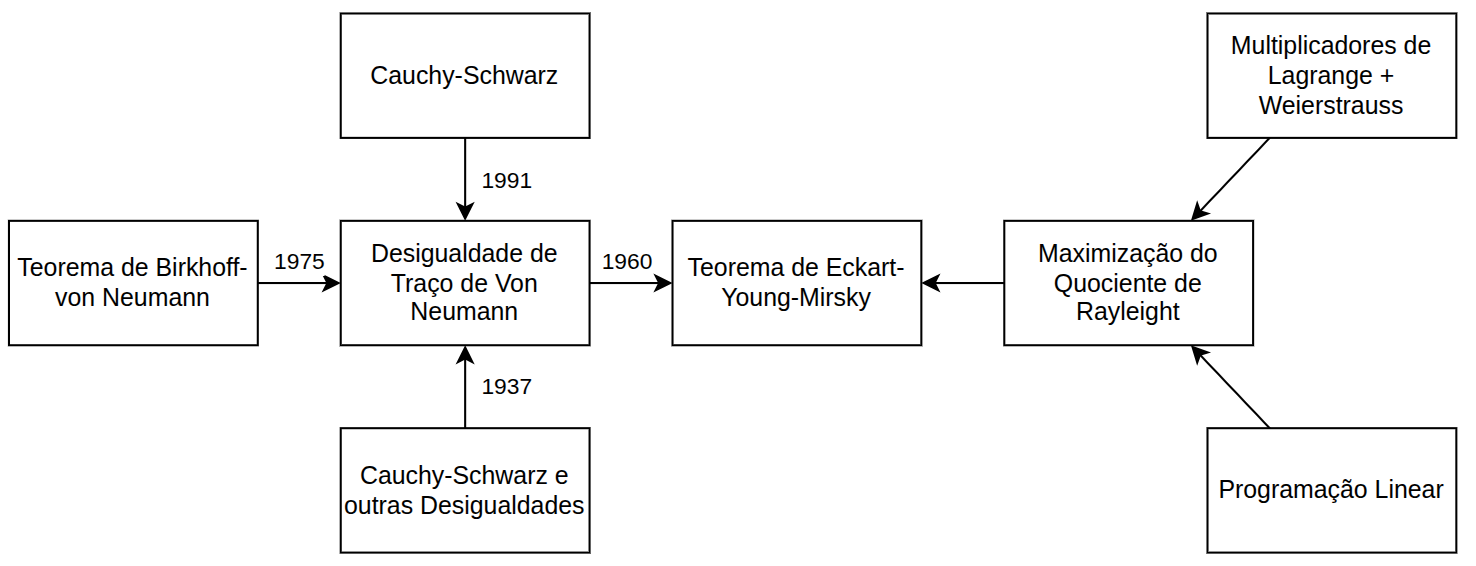
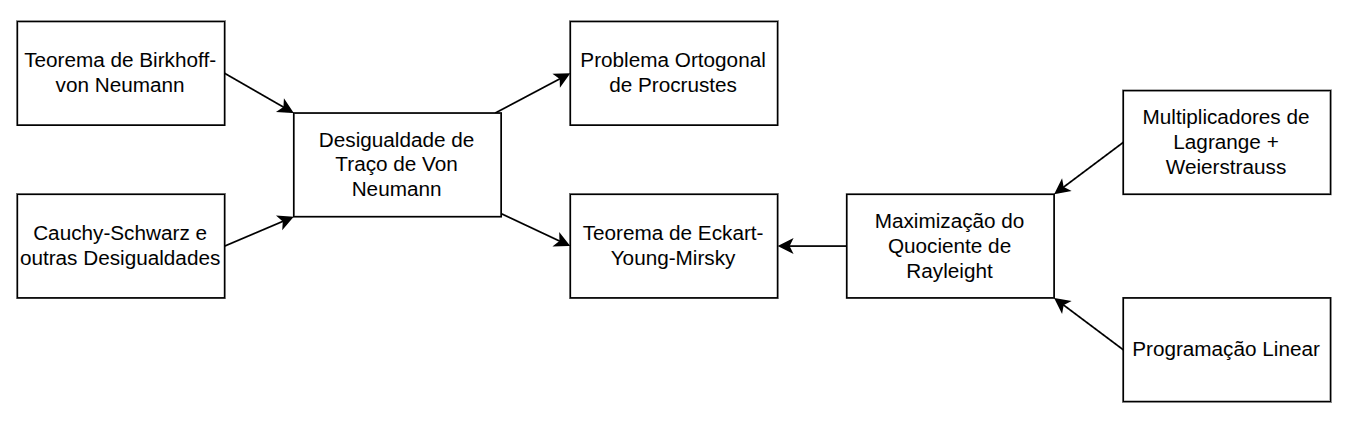
Add TODOs and update drawio

diff --git a/slides/slides.tex b/slides/slides.tex
@@ -1,8 +1,6 @@
 \documentclass{beamer}
 
-% colocar tempo de ic no 1° slide
-% e a bolsa
-\input{outer-crust/header.tex}
+\input{outer-crust/header.tex} % colocar tempo de ic no 1° slide e a bolsa
 
 \begin{document}
 
@@ -18,10 +16,6 @@
   \end{frame}
 
   \section{Motivação}
-    % Argumentos de desigualdade ao invés de Argumentos de teto
-    % ??? ao invés de "quebra de contexto"
-    % Tirar "de onde surgiu essa decomposição"
-    % Tirar "Álgebra"
     \input{part-1/the-problem.tex}
 
   \section{Abordagem}
@@ -29,15 +23,13 @@
     \input{part-2/argmin-decoupled.tex}
 
   \section{Mínimos Quadrados}
-    % Desenhos do quadro
-    \input{part-3/first-problem.tex}
+    \input{part-3/first-problem.tex} % change this slide
     \input{part-3/qr-decomp.tex}
-    \input{part-3/multiple-solutions.tex}
+    \input{part-3/multiple-solutions.tex} % change this slide
     \input{part-3/our-solution.tex}
 
   \section{Otimização Matricial}
-    \input{part-4/second-problem.tex}
-    \input{part-4/svd-decomp.tex}
+    \input{part-4/second-problem.tex} % change this slide
     \input{part-4/multiple-paths.tex}
     \input{part-4/our-solution-2.tex}
 

diff --git a/slides/outer-crust/thanks-and-bibliography.tex b/slides/outer-crust/thanks-and-bibliography.tex
@@ -1,14 +1,4 @@
 
-% >8-------------------------------------AGRADECIMENTOS-------------------------------------8<
-\begin{frame}{Agradecimentos}
-  \vfill
-  \begin{center}
-    Agradeço ao CNPq pela bolsa PIBIC-UFRJ.
-  \end{center}
-  \vfill
-\end{frame}
-% >8-------------------------------------AGRADECIMENTOS-------------------------------------8<
-
 % >8-------------------------------------REFERÊNCIAS-------------------------------------8<
 \begin{frame}{Referências Bibliográficas}
   \nocite{*}

diff --git a/slides/part-2/our-approach.tex b/slides/part-2/our-approach.tex
@@ -3,7 +3,7 @@
   \begin{enumerate}
     \item Operar em uma linguagem consistente; \\[0.75cm]
     \item Não realizar trocas de contexto; \\[0.75cm]
-    \item Minimizar argumentos de cálculo, geometria e ``tetos''. \\[0.75cm]
+    \item Minimizar argumentos de cálculo, geometria e desigualdades. \\[0.75cm]
   \end{enumerate}
 
   \begin{definition}[Argmin]

diff --git a/slides/part-1/the-problem.tex b/slides/part-1/the-problem.tex
@@ -5,7 +5,7 @@
   \end{center}
 
   \begin{figure}
-    \includegraphics[width=12cm]{problem-final.png}
+    \includegraphics[width=12cm]{problem-version-2.png}
   \end{figure}
 
 \end{frame}
